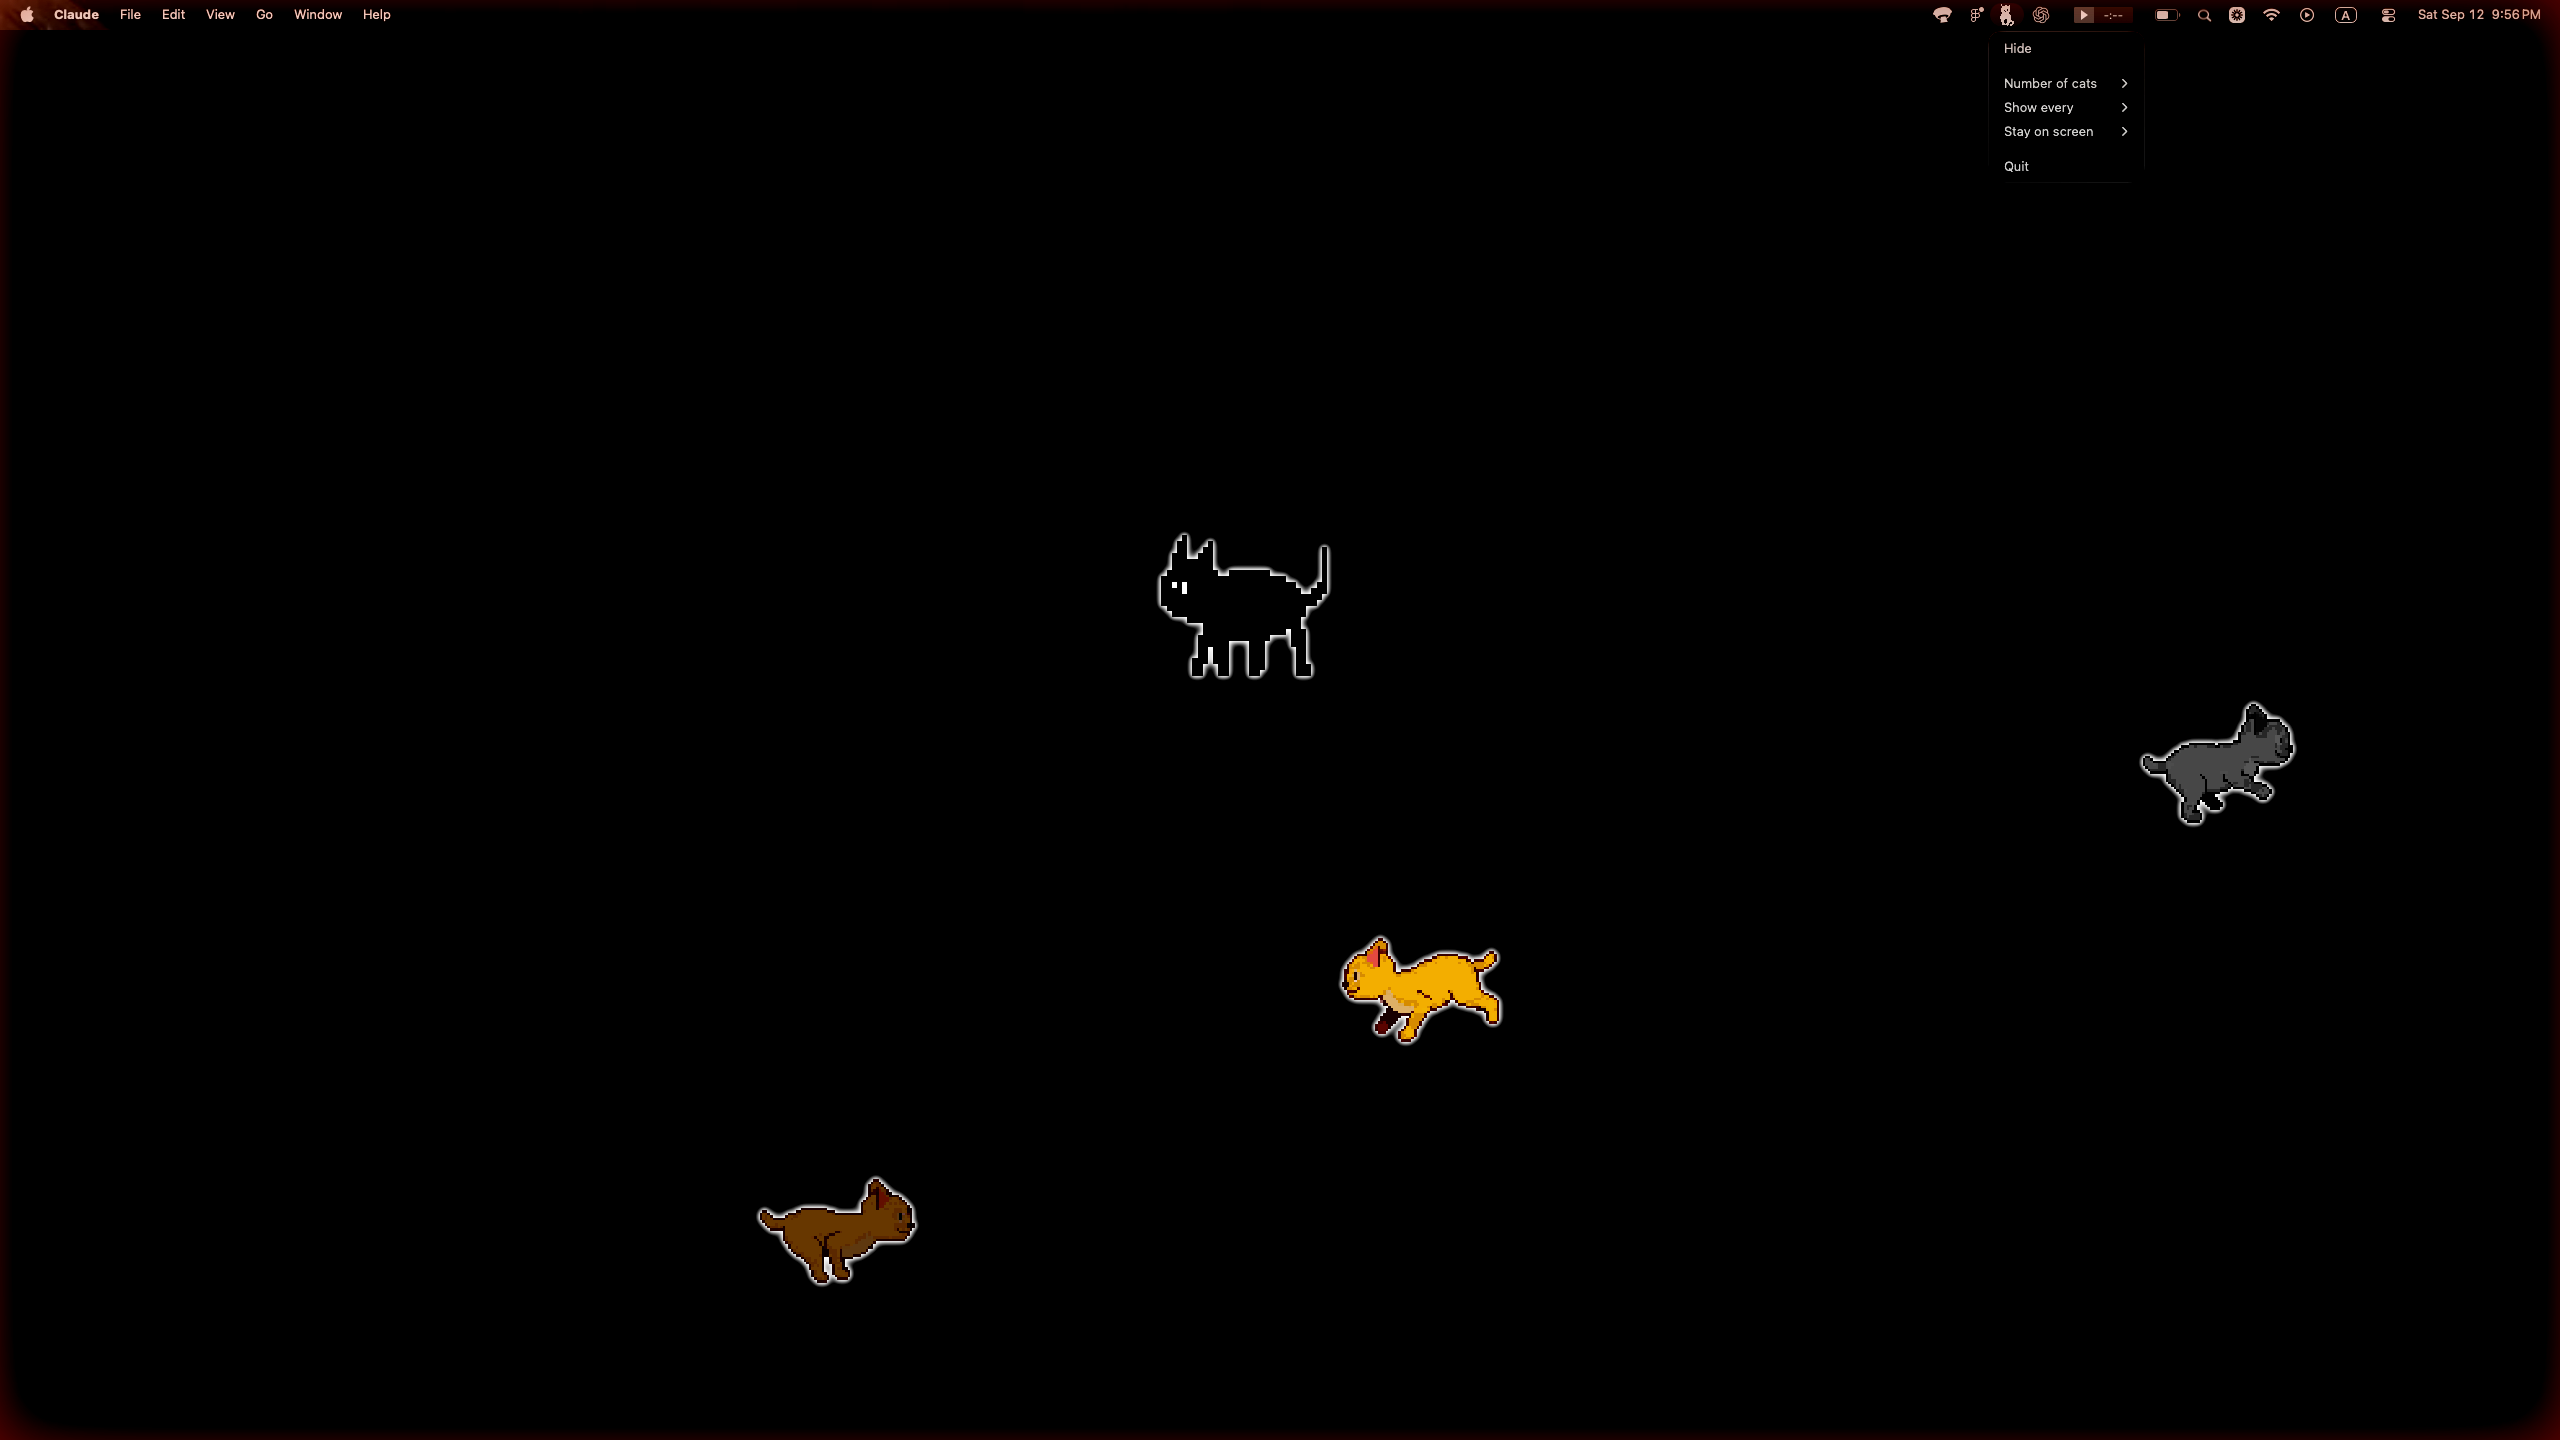
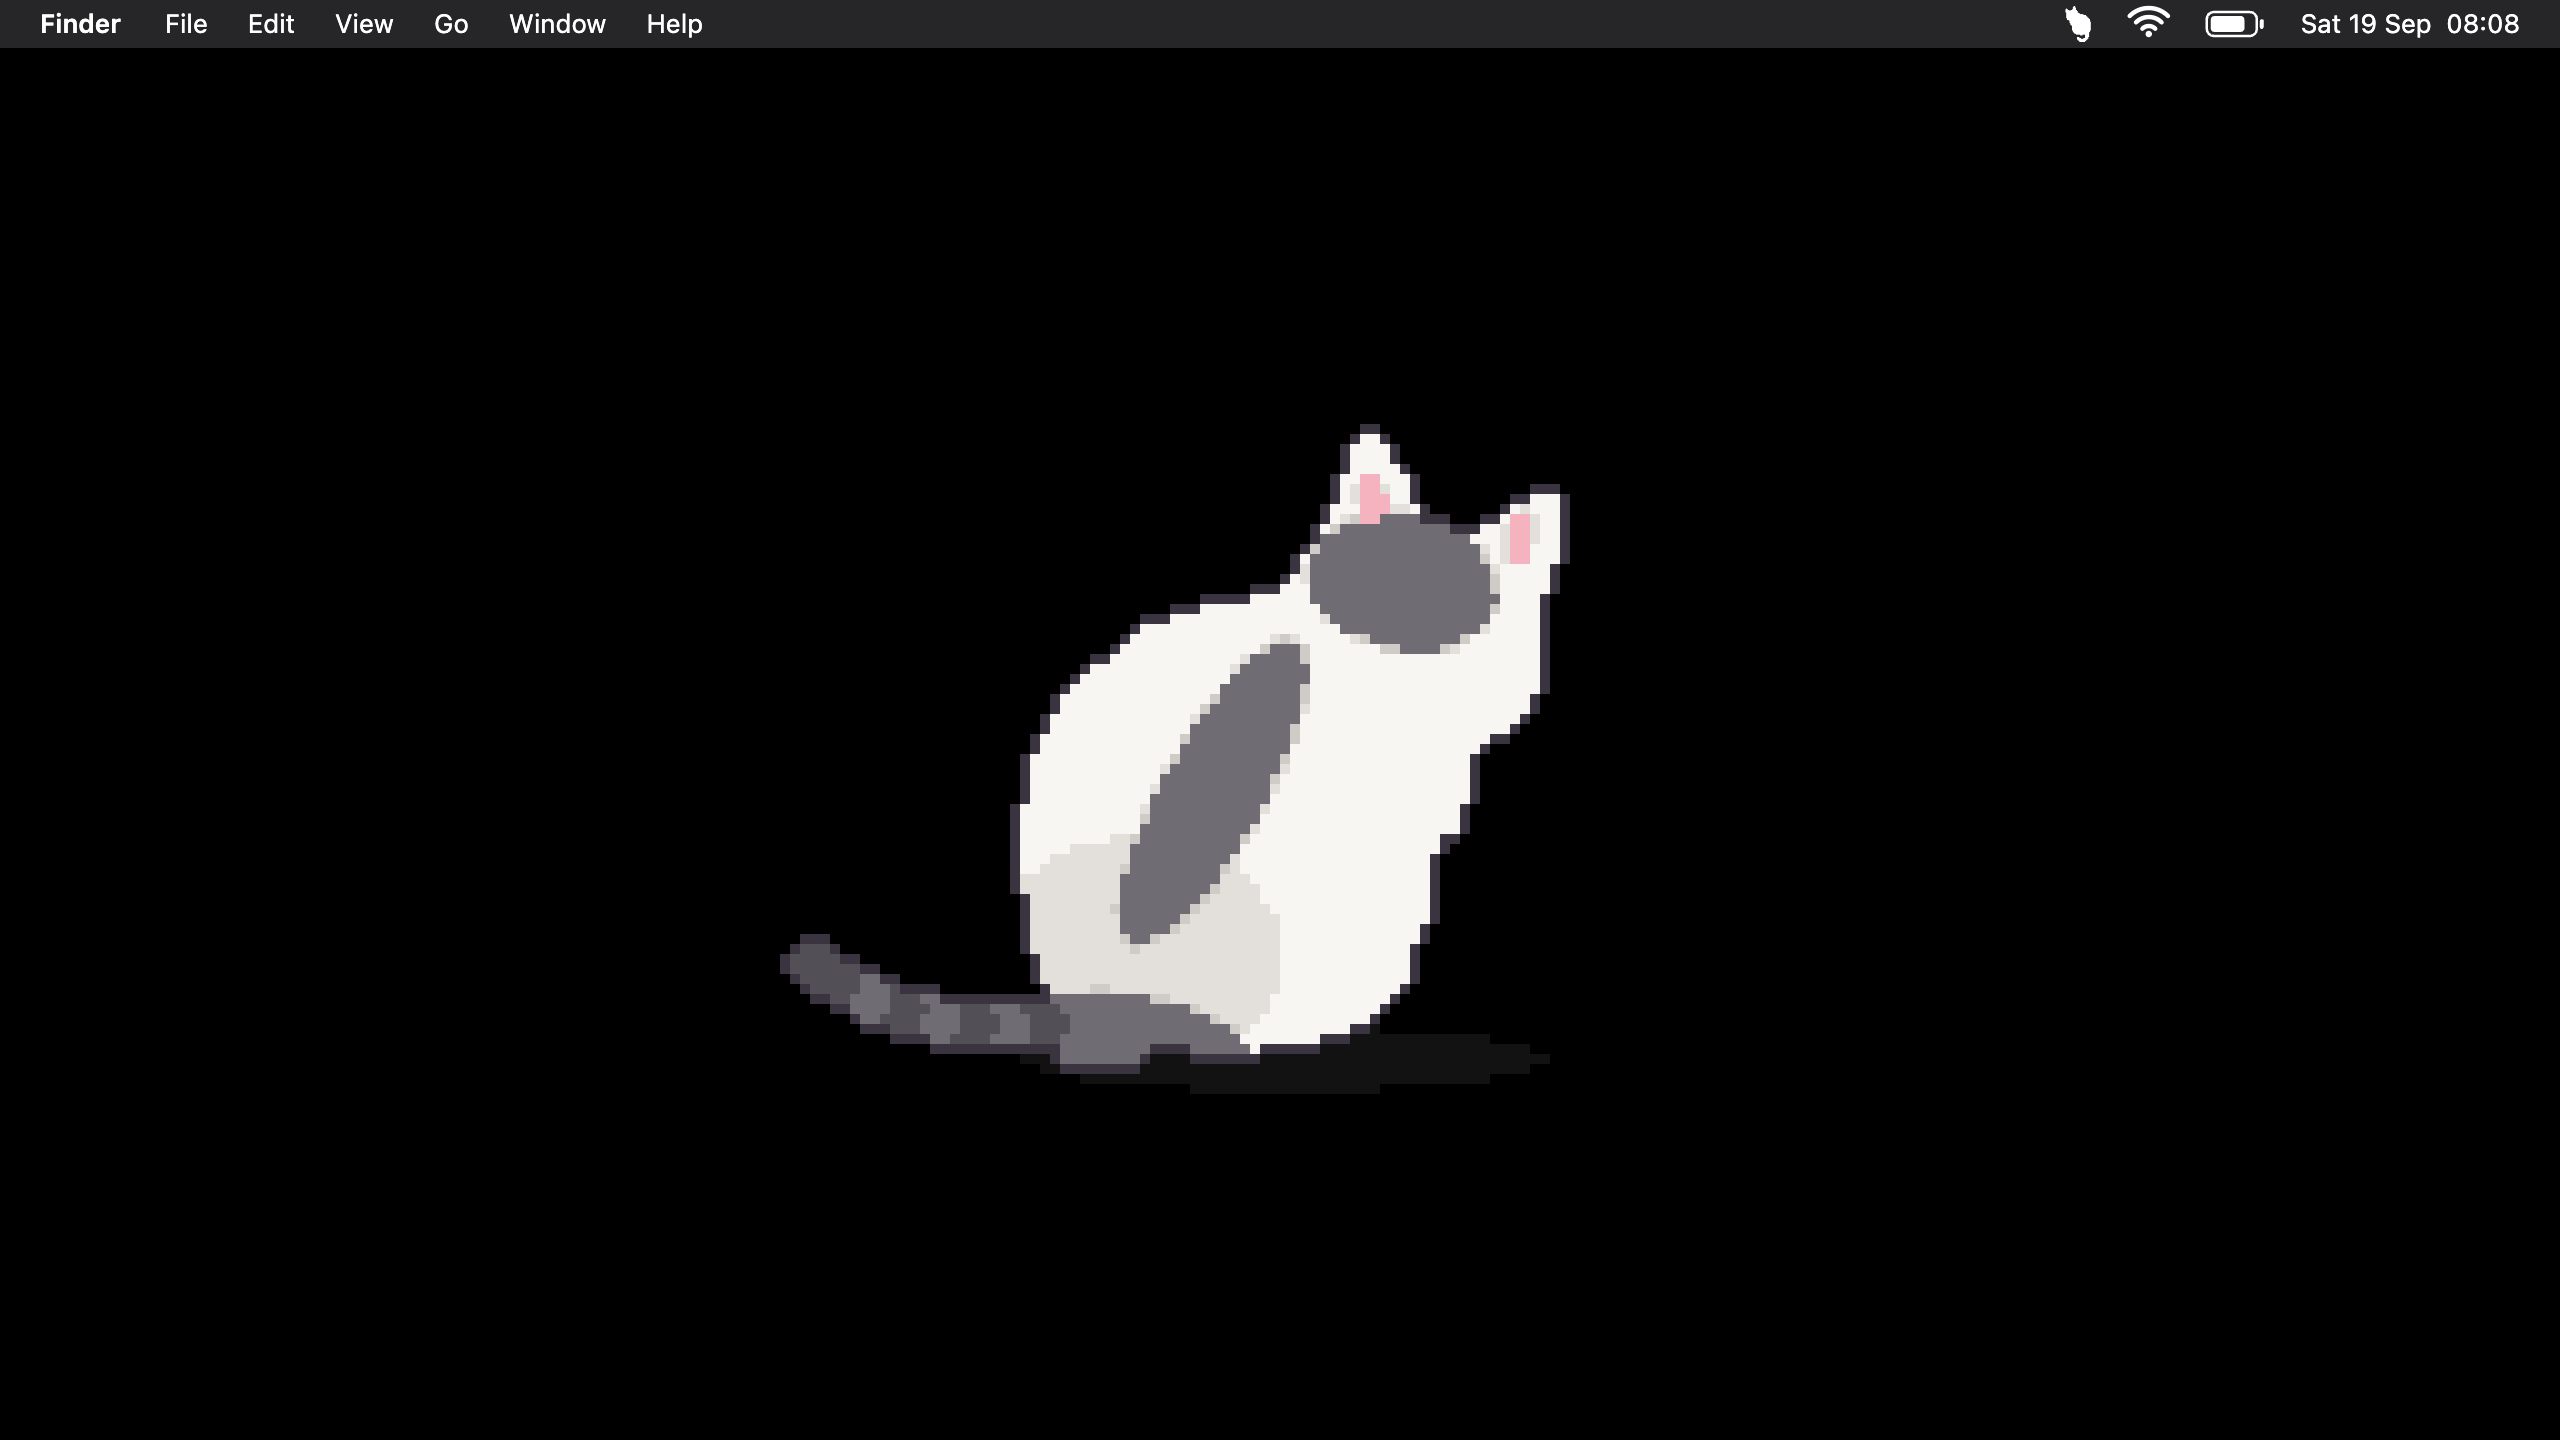
Update 08: new cover and simpler copy
08 is now a single cat who walks in, sits for your break and walks off,
so the card and page get a new cover and a short, plain description.

diff --git a/src/pages/CatEight.tsx b/src/pages/CatEight.tsx
@@ -24,10 +24,9 @@ export default function CatEight() {
 
           <h1 className="mb-4 text-3xl font-medium lg:text-5xl">08</h1>
           <p className="max-w-2xl text-gray-500 italic">
-            A tiny Pomodoro-style break reminder shaped like a cat. Tell her how
-            often to check in and how long to stay, and up to four cats wander
-            your screen — napping, stretching, playing, or just walking through
-            — then disappear.
+            A little Mac app named after my cat. Every now and then she walks
+            onto your screen, sits down, and reminds you to step away from the
+            computer and enjoy life for a bit.
           </p>
         </header>
 
@@ -35,7 +34,7 @@ export default function CatEight() {
           <div className="mb-12 bg-black">
             <Zoomable
               src="/experiments/08-cover.png"
-              alt="08, Biscuit, Ash, and Mocha wandering the screen with the tray menu open, showing Number of cats, Show every, and Stay on screen"
+              alt="08, a white-and-grey pixel cat, sitting in the middle of a dark Mac desktop"
               className="w-full"
             />
           </div>
@@ -55,80 +54,16 @@ export default function CatEight() {
             Why a cat
           </h3>
           <p className="my-4 max-w-[46rem] text-[1.125rem] leading-[1.8]">
-            08 is named after my actual cat. Whenever I look at her, she reminds
-            me that I don't have to run around doing a hundred things like the
-            world is ending — that it's fine to be lazy, do nothing for a
-            second, and let time slow down. The name is also a quiet nod to{" "}
-            <em>108 Bows of Gratitude</em>, a practice of gratitude and slowing
-            down through repeated, mindful bows. Underneath, "show every" and
-            "stay on screen" borrow a familiar Pomodoro shape because it's
-            practical, but the spirit is closer to the bows: not just clocking
-            work and breaks, but actually pausing, noticing, being grateful for
-            a moment.
+            08 is my cat. Whenever I look at her, she reminds me that there's a
+            whole life away from the screen — and that it's fine to slow down
+            and go live it for a bit.
           </p>
-
-          <h3 className="mt-12 mb-3 max-w-[46rem] text-[1.375rem] font-semibold">
-            What I actually did here
-          </h3>
           <p className="my-4 max-w-[46rem] text-[1.125rem] leading-[1.8]">
-            I'm a product designer, not a Swift or Electron engineer — I
-            directed this the way I'd direct any product, by using it constantly
-            and pushing back until it held up. Claude Code wrote the TypeScript;
-            the calls were mine:
-          </p>
-          <ul className="my-4 max-w-[46rem] list-outside list-disc space-y-2 pl-5 text-[1.125rem] leading-[1.8]">
-            <li className="pl-1">
-              Rejecting a first pass where the cat only ever appeared as a
-              static image, and asking for her to actually run across the screen
-              with a real walk-cycle animation.
-            </li>
-            <li className="pl-1">
-              Pushing further once that worked — asking her to wander freely
-              wherever she wants instead of pacing a fixed line back and forth,
-              "like she owns the screen."
-            </li>
-            <li className="pl-1">
-              Asking for up to four cats with fun names, each on an independent
-              schedule, and catching the bug where changing the count made all
-              of them vanish instead of just resizing the roster.
-            </li>
-            <li className="pl-1">
-              Catching that a cat could pop back up on its own moments after I'd
-              just hidden everything — traced to the auto-schedule running off a
-              fixed clock instead of resetting whenever a cat actually hid.
-            </li>
-            <li className="pl-1">
-              Sending back three separate icon designs — a full-body cat that
-              "didn't remind me of a cat," a filled glyph that was "hard to
-              see," and a redesign based on a reference icon that turned out to
-              be commercially licensed — before landing on the honest answer:
-              use 08's own pixel art as the icon instead of drawing a new one.
-            </li>
-            <li className="pl-1">
-              Deciding the placeholder sprites for the other three cats
-              (borrowed from an open-source project, credited in the repo)
-              needed to look like distinct animals, not recolors of the same
-              shape — sent one back for reading as a faded duplicate instead of
-              its own cat.
-            </li>
-          </ul>
-
-          <h3 className="mt-12 mb-3 max-w-[46rem] text-[1.375rem] font-semibold">
-            Worth knowing
-          </h3>
-          <p className="my-4 max-w-[46rem] text-[1.125rem] leading-[1.8]">
-            08 herself is original black-and-white pixel art. Biscuit, Ash, and
-            Mocha are temporary placeholder sprites from the open-source{" "}
-            <a
-              href="https://github.com/wil-pe/CATAI"
-              target="_blank"
-              rel="noopener noreferrer"
-              className="underline"
-            >
-              CATAI
-            </a>{" "}
-            project (MIT-licensed, credited in the repo) — the plan is to
-            replace them with original art once there's time for a proper pass.
+            The app does the same: after you've worked for a while, she slowly
+            walks in, sits in the middle of your screen and swishes her tail.
+            That's your cue to get up too: stretch, look out of the window, make
+            some tea. When the break is over, she walks away. You choose how
+            long you work and how long the break is.
           </p>
         </section>
 

diff --git a/src/data/experiments.ts b/src/data/experiments.ts
@@ -38,7 +38,7 @@ export const experiments: Experiment[] = [
   {
     name: "08",
     description:
-      "Named after my cat, she pops into the corner of your screen on your schedule for a small, guilt-free pause, then wanders off.",
+      "A little Mac app named after my cat. Every now and then she walks onto your screen, sits down, and reminds you to step away from the computer and enjoy life for a bit.",
     stack: "Electron, TypeScript",
     platform: "MacOS",
     link: "/08",
